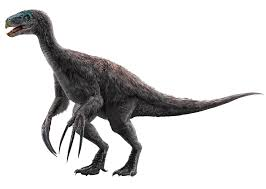
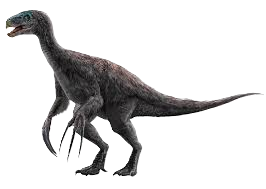
Cambio las imágenes de la lista a PNG

diff --git a/pages/dinosaurioslista.html b/pages/dinosaurioslista.html
@@ -32,38 +32,34 @@
                 <ol class="lista_dinosaurios">
                     <h3>B</h3>                 
                     <li class="apartados"><a class="texto_lista" href="dinosaurios/baryonyx.html"> Baryonyx</a><p></p><img class="lista_saurica" src="/imagenes/baryonyx.png"></li>
-                    <li class="apartados"><a class="texto_lista" href="dinosaurios/brachiosaurio.html"> Brachiosaurio</a><p></p><img class="lista_saurica" src="/imagenes/brachiosaurus_face.jpg"></li>
+                    <li class="apartados"><a class="texto_lista" href="dinosaurios/brachiosaurio.html"> Brachiosaurio</a><p></p><img class="lista_saurica" src="/imagenes/brachiosaurus.png"></li>
                 </ol>
                 <ol class="lista_dinosaurios">
                     <h3>C</h3>
                     <li class="apartados"><a class="texto_lista" href="dinosaurios/camarasaurus.html"> Camarasaurus</a><p></p><img class="lista_saurica" src="/imagenes/camarasaurus.png"></li>
-<<<<<<< Updated upstream
-                    <li class="apartados"><a class="texto_lista" href="dinosaurios/carnotauro.html"> Carnotauro</a><p></p><img class="lista_saurica" src="/imagenes/Carnotaurus.jpg"></li>
-=======
-                    <li class="apartados"><a class="texto_lista" href="dinosaurios/carnotauro.html"> Carnotauro</a><p></p><img class="lista_saurica" src="/imagenes/carnotauro.png"></li>
->>>>>>> Stashed changes
+                    <li class="apartados"><a class="texto_lista" href="dinosaurios/carnotauro.html"> Carnotauro</a><p></p><img class="lista_saurica" src="/imagenes/carnotaurus.png"></li>
                     <li class="apartados"><a class="texto_lista" href="dinosaurios/ceratosaurus.html"> Ceratosaurus</a><p></p><img class="lista_saurica" src="/imagenes/ceratosaurus.jpg"></li>
                     <li class="apartados"><a class="texto_lista" href="dinosaurios/compsognathus.html"> Compsognathus</a><p></p><img class="lista_saurica" src="/imagenes/compsognathus.png"></li>
                 </ol>
                 <ol class="lista_dinosaurios">
                     <h3>D</h3>
-                    <li class="apartados"><a class="texto_lista" href="dinosaurios/deinonychus.html"> Deinonychus</a><p></p><img class="lista_saurica" src="/imagenes/deinonychus.jpg"></li>
-                    <li class="apartados"><a class="texto_lista" href="dinosaurios/dilophosaurus.html"> Dilophosaurus</a><p></p><img class="lista_saurica" src="/imagenes/dilophosaurus.jpg"></li>
+                    <li class="apartados"><a class="texto_lista" href="dinosaurios/deinonychus.html"> Deinonychus</a><p></p><img class="lista_saurica" src="/imagenes/deinonychus.png"></li>
+                    <li class="apartados"><a class="texto_lista" href="dinosaurios/dilophosaurus.html"> Dilophosaurus</a><p></p><img class="lista_saurica" src="/imagenes/dilophosaurus.png"></li>
                     <li class="apartados"><a class="texto_lista" href="dinosaurios/dimetrodon.html"> Dimetrodón</a><p></p><img class="lista_saurica" src="/imagenes/dimetrodón.png"></li>
-                    <li class="apartados"><a class="texto_lista" href="dinosaurios/diplodocus.html"> Diplodocus</a><p></p><img class="lista_saurica" src="/imagenes/diplodocus.jpg"></li>
+                    <li class="apartados"><a class="texto_lista" href="dinosaurios/diplodocus.html"> Diplodocus</a><p></p><img class="lista_saurica" src="/imagenes/diplodocus.png"></li>
                 </ol>
                 <ol class="lista_dinosaurios">
                     <h3>E</h3>
-                    <li class="apartados"><a class="texto_lista" href="dinosaurios/elasmosaurus.html"> Elasmosaurus</a><p></p><img class="lista_saurica" src="/imagenes/elasmosaurus.jpg"></li>
+                    <li class="apartados"><a class="texto_lista" href="dinosaurios/elasmosaurus.html"> Elasmosaurus</a><p></p><img class="lista_saurica" src="/imagenes/elasmosaurus.png"></li>
                 </ol>
                 <ol class="lista_dinosaurios">
                     <h3>G</h3>
-                    <li class="apartados"><a class="texto_lista" href="dinosaurios/giganotosaurus.html"> Giganotosaurus</a><p></p><img class="lista_saurica" src="/imagenes/giganotosaurus.jpg"></li>
+                    <li class="apartados"><a class="texto_lista" href="dinosaurios/giganotosaurus.html"> Giganotosaurus</a><p></p><img class="lista_saurica" src="/imagenes/giganotosaurus.png"></li>
                     <li class="apartados"><a class="texto_lista" href="dinosaurios/gigantoraptor.html"> Gigantoraptor</a><p></p><img class="lista_saurica" src="/imagenes/gigantoraptor.png"></li>
                 </ol>
                 <ol class="lista_dinosaurios">
                     <h3>H</h3>
-                    <li class="apartados"><a class="texto_lista" href="dinosaurios/herrerasaurus.html"> Herrerasaurus</a><p></p><img class="lista_saurica" src="/imagenes/herrerasaurus.jpg"></li>
+                    <li class="apartados"><a class="texto_lista" href="dinosaurios/herrerasaurus.html"> Herrerasaurus</a><p></p><img class="lista_saurica" src="/imagenes/herrerasaurus.png"></li>
                 </ol>
                 <ol class="lista_dinosaurios">
                     <h3>I</h3>
@@ -71,35 +67,35 @@
                 </ol>
                 <ol class="lista_dinosaurios">
                     <h3>L</h3>
-                    <li class="apartados"><a class="texto_lista" href="dinosaurios/liopleurodon.html"> Liopleurodón</a><p></p><img class="lista_saurica" src="/imagenes/liopleurodón.jpg"></li>
+                    <li class="apartados"><a class="texto_lista" href="dinosaurios/liopleurodon.html"> Liopleurodón</a><p></p><img class="lista_saurica" src="/imagenes/liopleurodón.png"></li>
                 </ol>
                 <ol class="lista_dinosaurios">
                     <h3>N</h3>
-                    <li class="apartados"><a class="texto_lista" href="dinosaurios/nigersaurus.html"> Nigersaurus Taqueti</a><p></p><img class="lista_saurica" src="/imagenes/nigersaurusface.jpg"></li>
+                    <li class="apartados"><a class="texto_lista" href="dinosaurios/nigersaurus.html"> Nigersaurus Taqueti</a><p></p><img class="lista_saurica" src="/imagenes/nigersaurusface.png"></li>
                 </ol>
                 <ol class="lista_dinosaurios">
                     <h3>P</h3>
                     <li class="apartados"><a class="texto_lista" href="dinosaurios/pachycephalosaurus.html"> Pachycephalosaurus</a><p></p><img class="lista_saurica" src="/imagenes/pachycephalosaurus.png"></li>
                     <li class="apartados"><a class="texto_lista" href="dinosaurios/parasaurolophus.html"> Parasaurolophus</a><p></p><img class="lista_saurica" src="/imagenes/paracsaurolophus.png"></li>
-                    <li class="apartados"><a class="texto_lista" href="dinosaurios/plateosaurus.html"> Plateosaurus</a><p></p><img class="lista_saurica" src="/imagenes/plateosaurus.jpg"></li>
-                    <li class="apartados"><a class="texto_lista" href="dinosaurios/pteranodon.html"> Pteranodón</a><p></p><img class="lista_saurica" src="/imagenes/pteranodón.jpg"></li>
+                    <li class="apartados"><a class="texto_lista" href="dinosaurios/plateosaurus.html"> Plateosaurus</a><p></p><img class="lista_saurica" src="/imagenes/plateosaurus.png"></li>
+                    <li class="apartados"><a class="texto_lista" href="dinosaurios/pteranodon.html"> Pteranodón</a><p></p><img class="lista_saurica" src="/imagenes/pteranodón.png"></li>
                 </ol>
                 <ol class="lista_dinosaurios">
                     <h3>S</h3>
                     <li class="apartados"><a class="texto_lista" href="dinosaurios/spinosaurus.html"> Spinosaurus</a><p></p><img class="lista_saurica" src="/imagenes/spinosaurus.png"></li>
-                    <li class="apartados"><a class="texto_lista" href="dinosaurios/stegosaurus.html"> Stegosaurus</a><p></p><img class="lista_saurica" src="/imagenes/stegosaurus.jpg"></li>
-                    <li class="apartados"><a class="texto_lista" href="dinosaurios/styracosaurus.html"> Styracosaurus</a><p></p><img class="lista_saurica" src="/imagenes/styracosaurus.jfif"></li>
+                    <li class="apartados"><a class="texto_lista" href="dinosaurios/stegosaurus.html"> Stegosaurus</a><p></p><img class="lista_saurica" src="/imagenes/stegosaurus.png"></li>
+                    <li class="apartados"><a class="texto_lista" href="dinosaurios/styracosaurus.html"> Styracosaurus</a><p></p><img class="lista_saurica" src="/imagenes/styracosaurus.png"></li>
                 </ol>
                 <ol class="lista_dinosaurios">
                     <h3>T</h3>
                     <li class="apartados"><a class="texto_lista" href="dinosaurios/therizinosaurus.html"> Therizinosaurus</a><p></p><img class="lista_saurica" src="/imagenes/therizinosaurus.png"></li>
                     <li class="apartados"><a class="texto_lista" href="dinosaurios/triceratops.html"> Triceratops</a><p></p><img class="lista_saurica" src="/imagenes/triceratops.png"></li>
-                    <li class="apartados"><a class="texto_lista" href="dinosaurios/tylosaurus.html"> Tylosaurus</a><p></p><img class="lista_saurica" src="/imagenes/tylosaurus.jpg"></li>
+                    <li class="apartados"><a class="texto_lista" href="dinosaurios/tylosaurus.html"> Tylosaurus</a><p></p><img class="lista_saurica" src="/imagenes/tylosaurus.png"></li>
                     <li class="apartados"><a class="texto_lista" href="dinosaurios/tyrannosaurus.html"> Tyrannosaurus</a><p></p><img class="lista_saurica" src="/imagenes/tyrannosaurus.png"></li>
                 </ol>
                 <ol class="lista_dinosaurios">
                     <h3>V</h3>
-                    <li class="apartados"><a class="texto_lista" href="dinosaurios/velociraptor.html"> Velocirráptor</a><p></p><img class="lista_saurica" src="/imagenes/velocirráptor.jpg"></li>
+                    <li class="apartados"><a class="texto_lista" href="dinosaurios/velociraptor.html"> Velocirráptor</a><p></p><img class="lista_saurica" src="/imagenes/velocirráptor.png"></li>
                 </ol>
             </section>
         </main>
